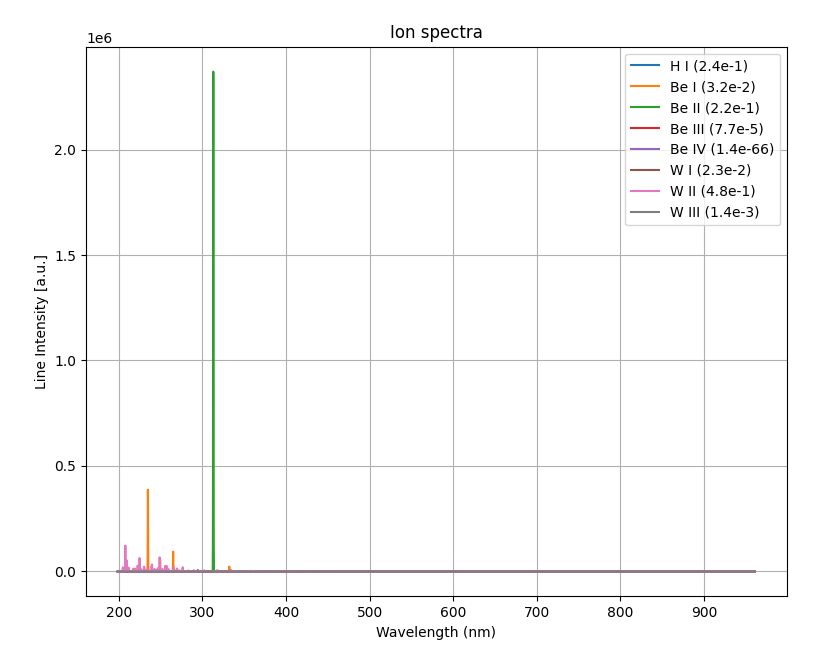
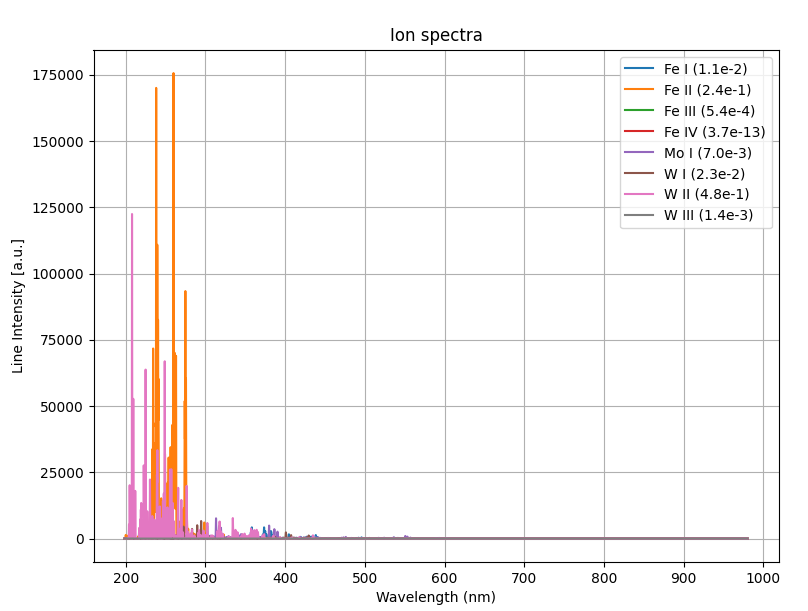
update readme

diff --git a/SimulatedLIBS/simulation.py b/SimulatedLIBS/simulation.py
@@ -256,7 +256,7 @@ class SimulatedLIBS(object):
 
 
 if __name__ == '__main__':
-    libs = SimulatedLIBS(Te=1.0, Ne=10 ** 17, elements=['W','H','Be'],percentages=[50,25,25],
+    libs = SimulatedLIBS(Te=1.0, Ne=10 ** 17, elements=['W','Fe','Mo'],percentages=[50,25,25],
                                     resolution=1000, low_w=200, upper_w=1000, max_ion_charge=3, webscraping='dynamic')
     libs.plot_ion_spectra()
     plt.show()

diff --git a/README.md b/README.md
@@ -32,13 +32,13 @@ Parameters:
 
 ### Static websraping
 ```python
-libs = simulation.SimulatedLIBS(Te=1.0, Ne=10**17, elements=['W','H','Be'],percentages=[50,25,25],
+libs = simulation.SimulatedLIBS(Te=1.0, Ne=10**17, elements=['W','Fe','Mo'],percentages=[50,25,25],
                                 resolution=1000,low_w=200,upper_w=1000,max_ion_charge=3, webscraping='static')
 ```
 
 ### Plot
 ```python
-libs.plot(color='blue', title='W Be H composition')
+libs.plot(color='blue', title='W Fe Mo composition')
 ```
 ![](images/plot_static.png)
 
@@ -60,13 +60,13 @@ libs.get_raw_spectrum()
 ```
 ### Dynamic websraping
 ```python
-libs = simulation.SimulatedLIBS(Te=1.0, Ne=10**17, elements=['W','H','Be'],percentages=[50,25,25],
+libs = simulation.SimulatedLIBS(Te=1.0, Ne=10**17, elements=['W','Fe','Mo'],percentages=[50,25,25],
                                 resolution=1000,low_w=200,upper_w=1000,max_ion_charge=3, webscraping='dynamic')
 ```
 
 ### Plot
 ```python
-libs.plot(color='blue', title='W Be H composition')
+libs.plot(color='blue', title='W Fe Mo composition')
 ```
 ![](images/plot_dynamic.png)
 
